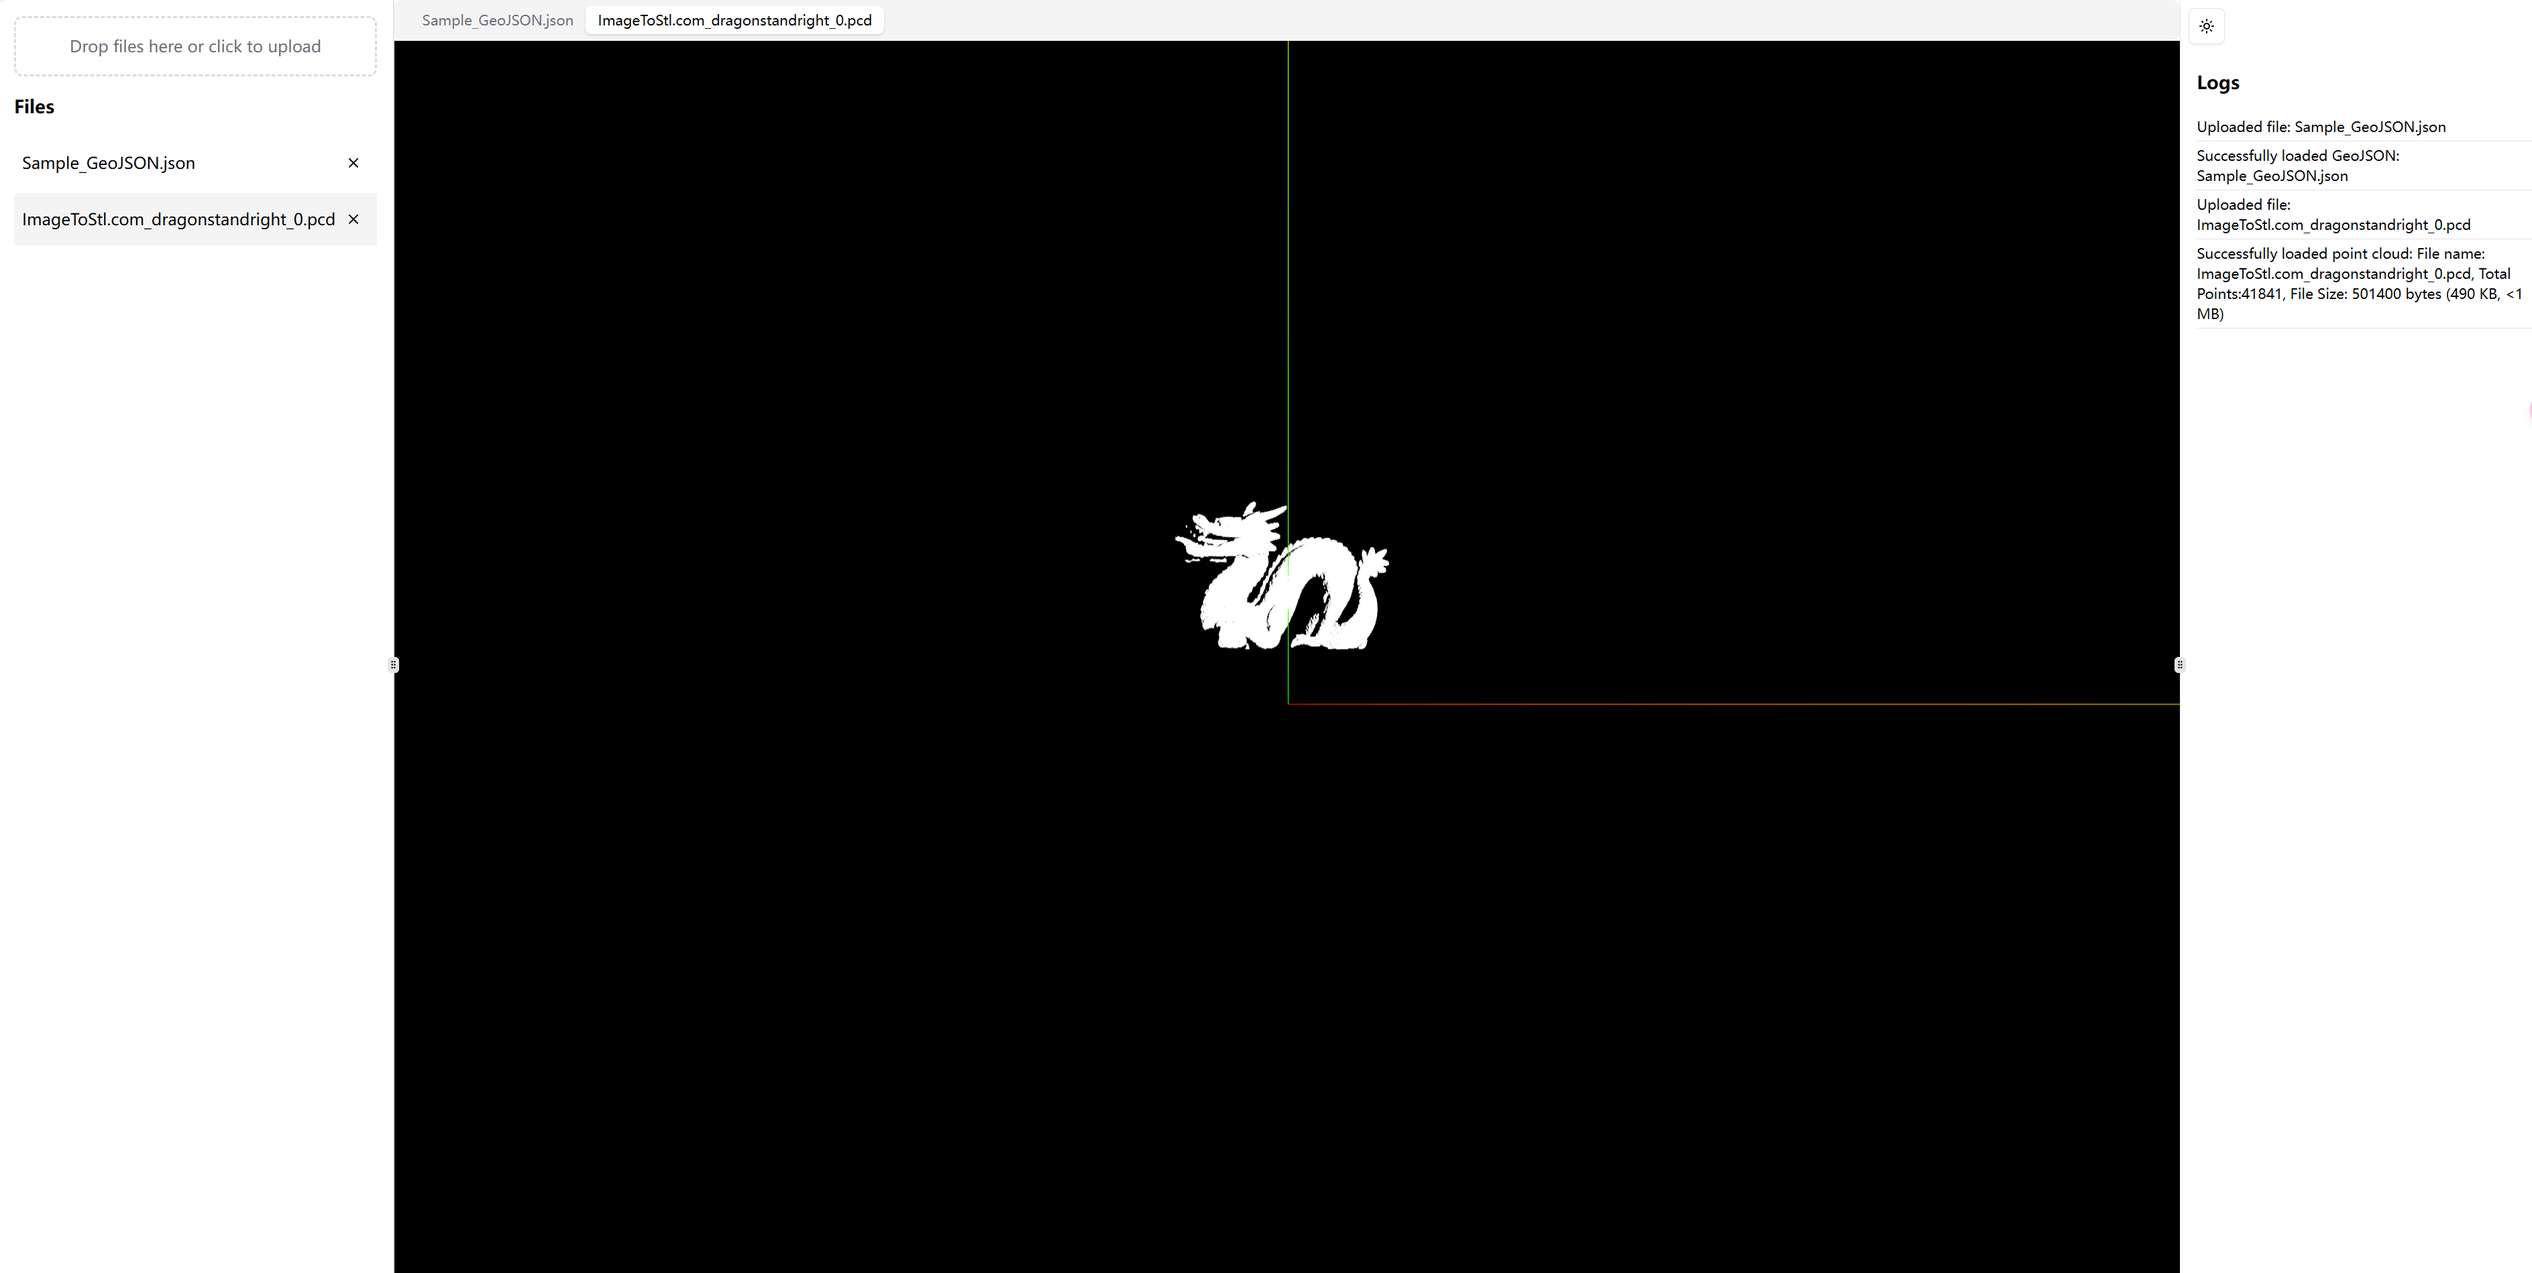
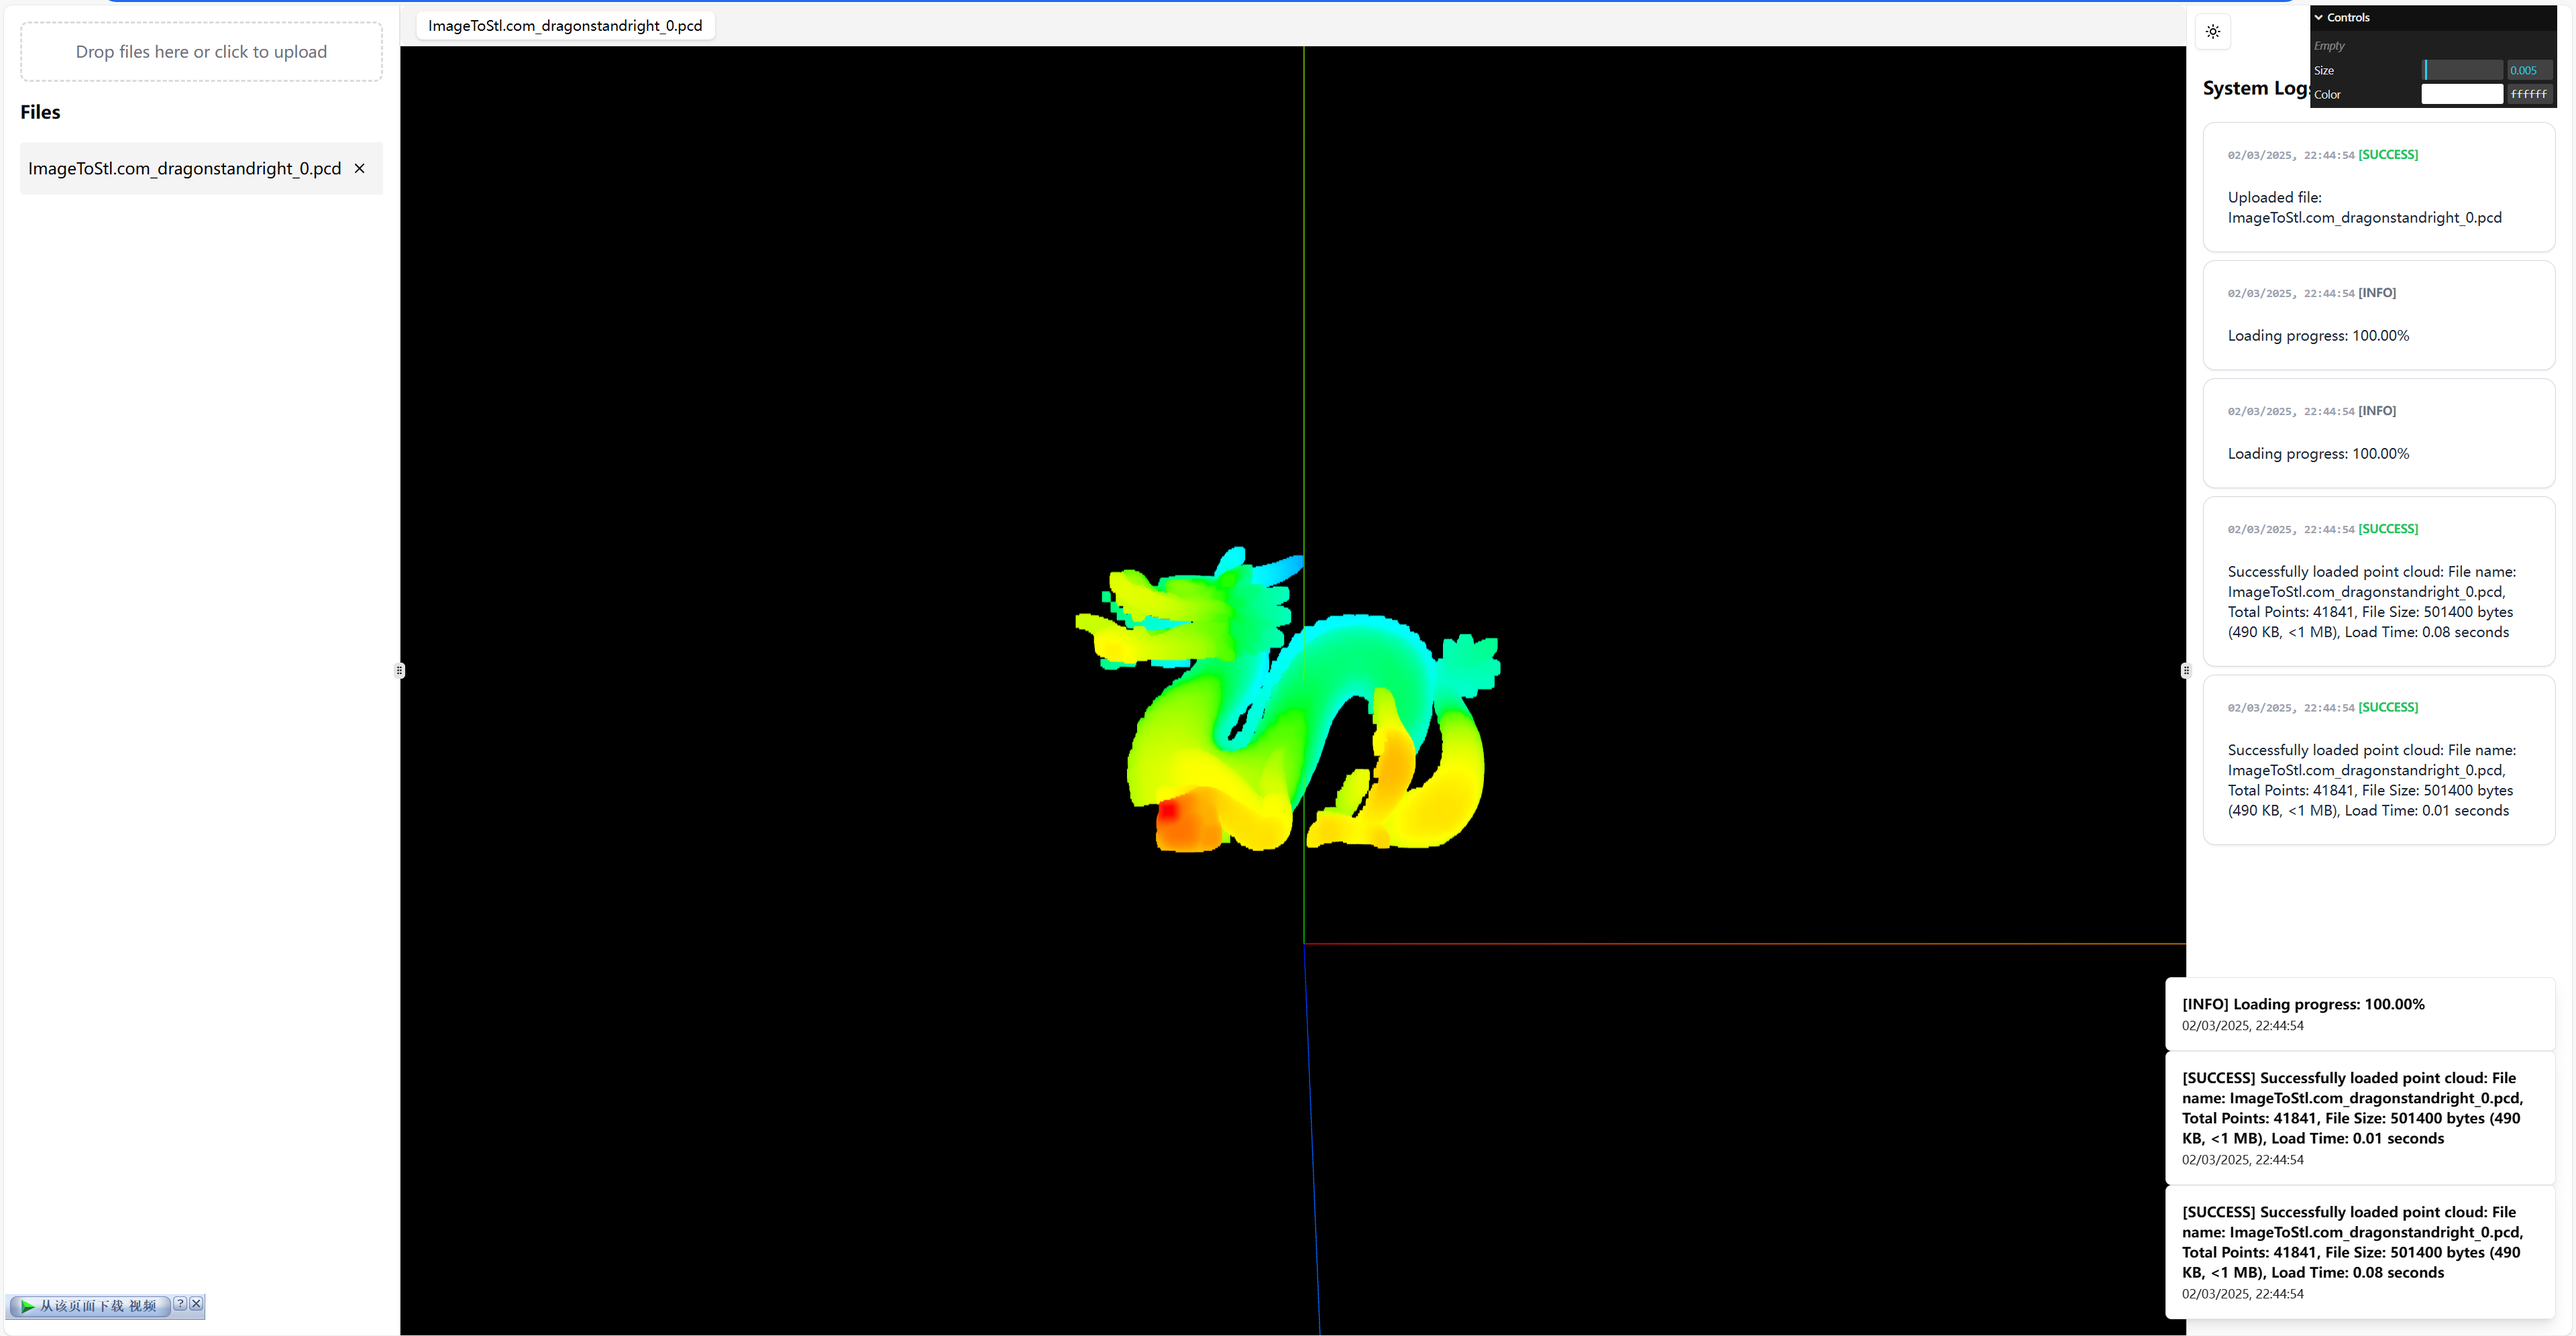
Update readme

diff --git a/README.md b/README.md
@@ -28,6 +28,7 @@ Below are screenshots of the application interface:
 
 - **Frontend Framework**: ReactJS
 - **Styling**: TailwindCSS
+- **3D Rendering**: Three.js
 - **File Formats Supported**:
   - Point Cloud Data (PCD)
   - GIS Data (GeoJSON)
@@ -57,6 +58,33 @@ Below are screenshots of the application interface:
 
 ### 5. **Expandable/Collapsible Sections**
 - Users can toggle the left-side file list and the log information section to maximize the 3D display area or focus on file management and logs.
+
+## Why Switch to Three.js?
+
+Initially, the project used **pcl.js** for point cloud visualization. However, when deploying on **Vercel**, an error occurred:
+
+```
+Uncaught (in promise) TypeError: __PCLCore__[n.name] is not a constructor
+    at new YB (index-C8DWNnQa.js:2576:7298)
+```
+
+The error was triggered by the following pcl.js code:
+
+```typescript
+constructor(n=qg, s) {
+    this._PT = n,
+    this._native = s ?? new __PCLCore__[`PointCloud${n.name}`],
+    this.manager = new hw(this._native)
+}
+```
+
+When trying to load a PCD file:
+
+```typescript
+const cloud = PCL.loadPCDData<PCL.PointXYZ>(arrayBuffer, PCL.PointXYZ);
+```
+
+Since **pcl.js** caused deployment issues, **Three.js** was chosen as a replacement due to its stability, flexibility, and wide support for 3D rendering.
 
 ## How to Use
 
@@ -88,4 +116,4 @@ To run the project locally, follow these steps:
 3. Start the development server:
    ```bash
    npm run dev
-   ```
+
